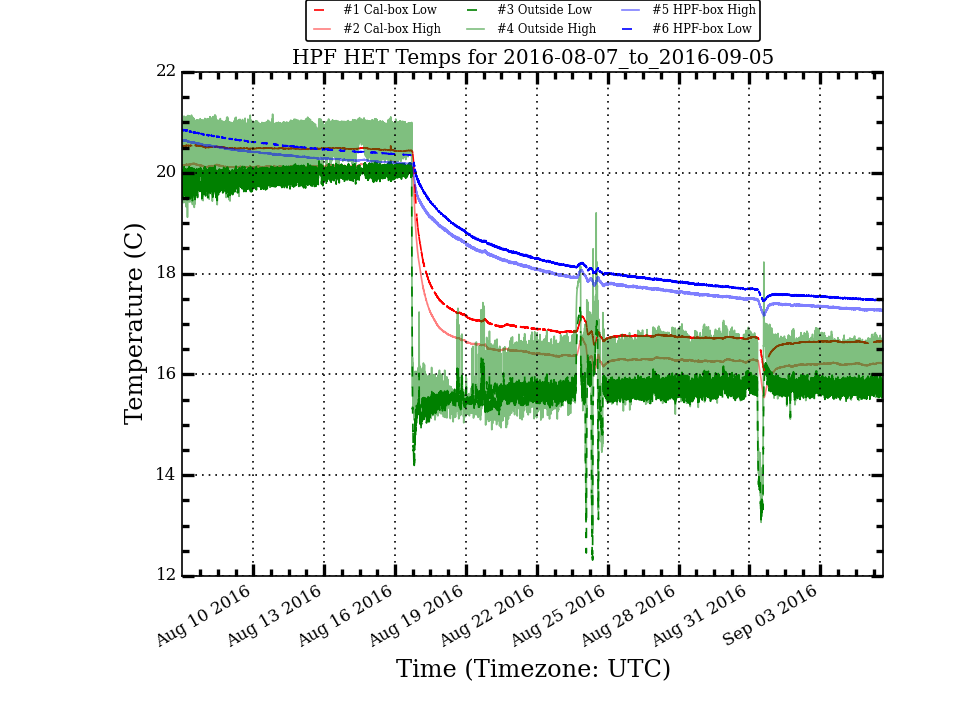
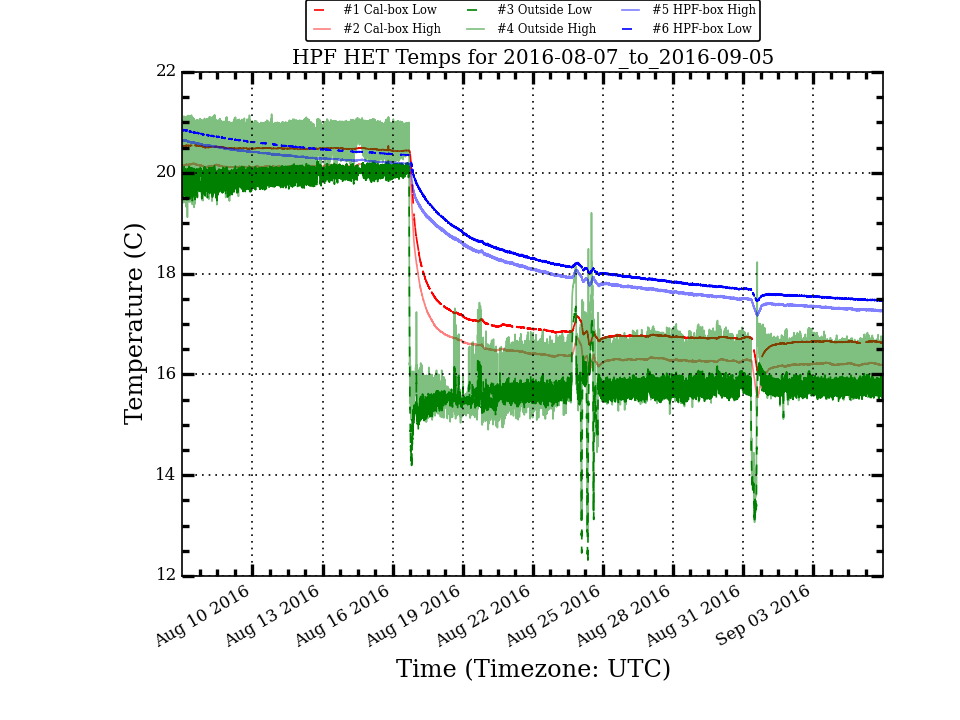
Update HPF Temp Plots

diff --git a/research/hpf_temps/plots/LakeShoreLogTotal_month_stats.html b/research/hpf_temps/plots/LakeShoreLogTotal_month_stats.html
@@ -10,54 +10,54 @@
  </TR>
  <TR>
   <TD>Cal_Low</TD>
-  <TD>18.057</TD>
-  <TD>1.730</TD>
-  <TD>16.934</TD>
+  <TD>18.041</TD>
+  <TD>1.726</TD>
+  <TD>16.922</TD>
   <TD>20.550</TD>
   <TD>16.074</TD>
   <TD>4.476</TD>
  </TR>
  <TR>
   <TD>Cal_High</TD>
-  <TD>17.623</TD>
-  <TD>1.779</TD>
-  <TD>16.453</TD>
+  <TD>17.607</TD>
+  <TD>1.775</TD>
+  <TD>16.435</TD>
   <TD>20.246</TD>
   <TD>15.544</TD>
   <TD>4.702</TD>
  </TR>
  <TR>
   <TD>Out_Low</TD>
-  <TD>17.065</TD>
-  <TD>2.050</TD>
-  <TD>15.819</TD>
+  <TD>17.050</TD>
+  <TD>2.043</TD>
+  <TD>15.818</TD>
   <TD>20.236</TD>
   <TD>12.302</TD>
   <TD>7.934</TD>
  </TR>
  <TR>
   <TD>Out_High</TD>
-  <TD>17.569</TD>
-  <TD>2.192</TD>
-  <TD>16.469</TD>
+  <TD>17.554</TD>
+  <TD>2.184</TD>
+  <TD>16.466</TD>
   <TD>21.163</TD>
   <TD>12.840</TD>
   <TD>8.323</TD>
  </TR>
  <TR>
   <TD>HPF_High</TD>
-  <TD>18.678</TD>
-  <TD>1.255</TD>
-  <TD>18.101</TD>
+  <TD>18.661</TD>
+  <TD>1.257</TD>
+  <TD>18.084</TD>
   <TD>20.645</TD>
   <TD>17.167</TD>
   <TD>3.478</TD>
  </TR>
  <TR>
   <TD>HPF_Low</TD>
-  <TD>18.879</TD>
-  <TD>1.253</TD>
-  <TD>18.312</TD>
+  <TD>18.863</TD>
+  <TD>1.255</TD>
+  <TD>18.294</TD>
   <TD>20.858</TD>
   <TD>17.439</TD>
   <TD>3.419</TD>

diff --git a/research/hpf_temps/plots/LakeShoreLogTotal_week_stats.html b/research/hpf_temps/plots/LakeShoreLogTotal_week_stats.html
@@ -10,8 +10,8 @@
  </TR>
  <TR>
   <TD>Cal_Low</TD>
-  <TD>16.626</TD>
-  <TD>0.112</TD>
+  <TD>16.627</TD>
+  <TD>0.109</TD>
   <TD>16.644</TD>
   <TD>16.749</TD>
   <TD>16.074</TD>
@@ -19,45 +19,45 @@
  </TR>
  <TR>
   <TD>Cal_High</TD>
-  <TD>16.178</TD>
-  <TD>0.125</TD>
-  <TD>16.203</TD>
+  <TD>16.179</TD>
+  <TD>0.122</TD>
+  <TD>16.202</TD>
   <TD>16.308</TD>
   <TD>15.544</TD>
   <TD>0.764</TD>
  </TR>
  <TR>
   <TD>Out_Low</TD>
-  <TD>15.704</TD>
-  <TD>0.418</TD>
-  <TD>15.784</TD>
+  <TD>15.707</TD>
+  <TD>0.409</TD>
+  <TD>15.783</TD>
   <TD>16.224</TD>
   <TD>13.116</TD>
   <TD>3.108</TD>
  </TR>
  <TR>
   <TD>Out_High</TD>
-  <TD>16.216</TD>
-  <TD>0.523</TD>
-  <TD>16.312</TD>
+  <TD>16.217</TD>
+  <TD>0.514</TD>
+  <TD>16.310</TD>
   <TD>18.229</TD>
   <TD>13.065</TD>
   <TD>5.164</TD>
  </TR>
  <TR>
   <TD>HPF_High</TD>
-  <TD>17.373</TD>
-  <TD>0.084</TD>
-  <TD>17.360</TD>
+  <TD>17.367</TD>
+  <TD>0.085</TD>
+  <TD>17.356</TD>
   <TD>17.563</TD>
   <TD>17.167</TD>
   <TD>0.396</TD>
  </TR>
  <TR>
   <TD>HPF_Low</TD>
-  <TD>17.569</TD>
-  <TD>0.079</TD>
-  <TD>17.554</TD>
+  <TD>17.564</TD>
+  <TD>0.080</TD>
+  <TD>17.550</TD>
   <TD>17.760</TD>
   <TD>17.439</TD>
   <TD>0.321</TD>
